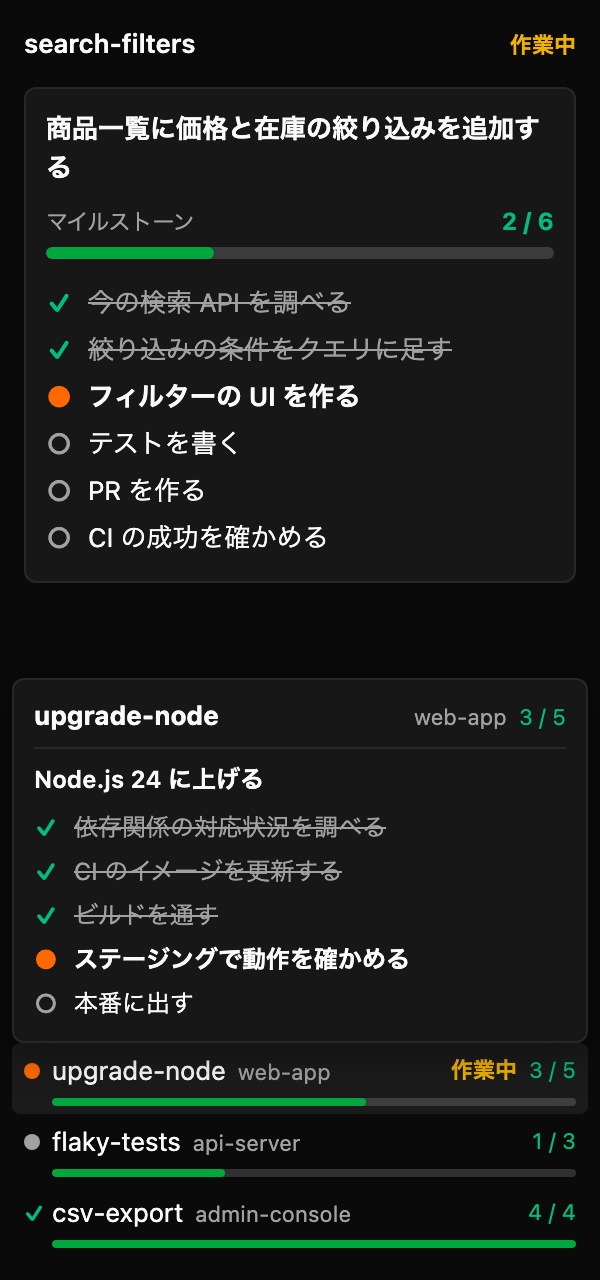
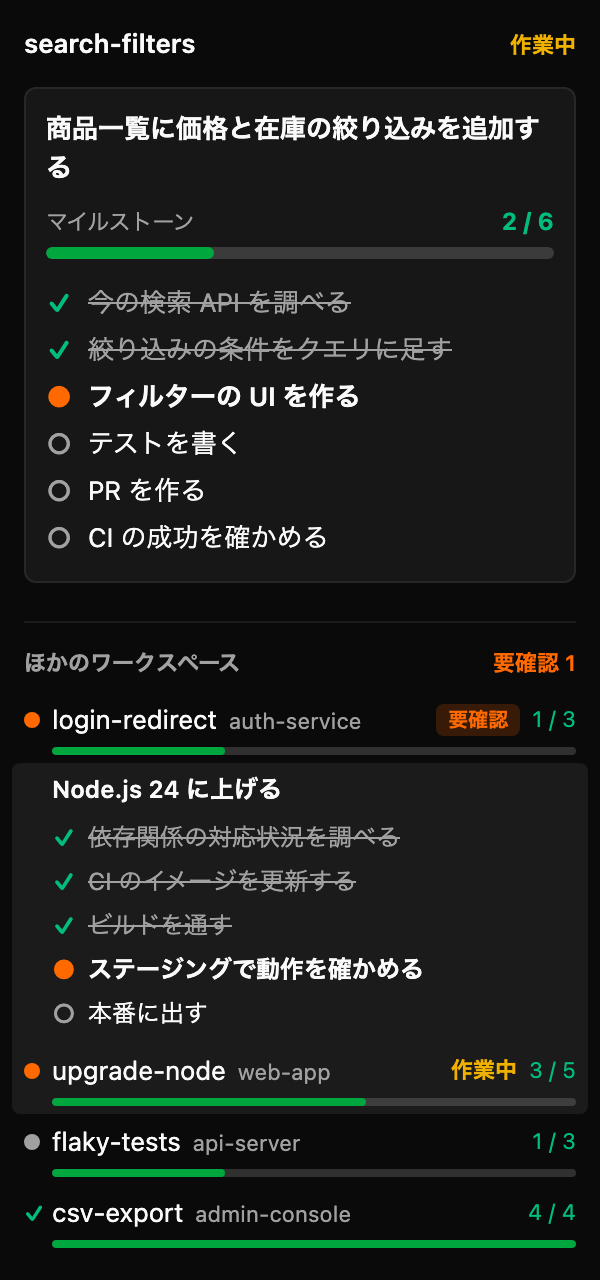
Expand a row in place instead of showing a popover
Hovering the head of another workspace's row now grows that row upward. The rows
are anchored to the bottom edge, so the head stays under the pointer. Only the
head keeps a row open, so leaving it puts every row back where it was. A list of
more than 8 tasks folds its finished tasks into one line and caps the rest, since
nothing in the row scrolls. The focused workspace now scrolls by itself, which
keeps the anchor when its list is long.

Changed region(s): [[0.0, 0.5, 0.99, 0.8125]]

diff --git a/panel/style.css b/panel/style.css
@@ -8,9 +8,12 @@
   --ms-working: oklch(68.1% 0.162 75.834); --ms-track: color-mix(in oklch, var(--orca-foreground) 12%, transparent); }
 html.dark { --ms-done: oklch(69.6% 0.17 162.48); --ms-todo: oklch(70.5% 0.213 47.604);
   --ms-working: oklch(79.5% 0.184 86.047); --ms-track: color-mix(in oklch, var(--orca-foreground) 16%, transparent); }
-body { box-sizing: border-box; display: flex; flex-direction: column; min-height: 100vh;
+/* The panel never scrolls as a whole: the focused workspace scrolls by itself, which keeps the other
+   workspaces fixed to the bottom edge however long its list is. */
+body { box-sizing: border-box; display: flex; flex-direction: column; height: 100vh; overflow: hidden;
   margin: 0; padding: 12px; font: 13px/1.5 system-ui, sans-serif;
   color: var(--orca-foreground); background: var(--orca-background); }
+main { flex: 1 1 0; min-height: 0; overflow: auto; }
 header { display: flex; align-items: baseline; justify-content: space-between; gap: 8px; margin-bottom: 12px; }
 h1 { margin: 0; font-size: 13px; font-weight: 600; overflow: hidden; text-overflow: ellipsis; white-space: nowrap; }
 .agent { flex: none; font-size: 11px; font-weight: 600; color: var(--orca-muted-foreground); }
@@ -36,28 +39,28 @@ li.completed .strike { background-size: 100% 1px; }
 li.in_progress { font-weight: 600; }
 .empty { color: var(--orca-muted-foreground); }
 code { font-size: 12px; }
-.others { margin-top: auto; padding-top: 12px; border-top: 1px solid var(--orca-border); }
+.others { flex: none; padding-top: 12px; border-top: 1px solid var(--orca-border); }
 .others h2 { display: flex; justify-content: space-between; align-items: baseline; margin: 0 0 6px;
   font-size: 11px; font-weight: 600; color: var(--orca-muted-foreground); }
 .others h2 .attention { color: var(--ms-todo); }
 .rows { margin: 0; padding: 0; list-style: none; }
-.row { display: block; position: relative; padding: 0; }
-.row .head { display: block; padding: 4px 6px; margin: 0 -6px; border-radius: 4px; }
-.row .head { cursor: pointer; }
-.row:hover .head { background: color-mix(in oklch, var(--orca-foreground) 7%, transparent); }
+/* Reversed, so a row grows upward from its head. The rows are anchored to the bottom edge, so the
+   head stays under the pointer and the rows above slide up. */
+.row { display: flex; flex-direction: column-reverse; gap: 0; padding: 0 6px; margin: 0 -6px; border-radius: 4px; }
+.row:has(.head:hover), .row:has(.head:focus-visible) { background: color-mix(in oklch, var(--orca-foreground) 7%, transparent); }
+.row .head { display: block; padding: 4px 6px; margin: 0 -6px; border-radius: 4px; cursor: pointer; user-select: none; }
 .row .head:focus-visible { outline: 1px solid var(--orca-foreground); outline-offset: -1px; }
-/* The detail floats above its row, over the empty middle of the panel, so nothing moves. */
-.row .detail { display: none; position: absolute; left: -6px; right: -6px; bottom: 100%; z-index: 1;
-  max-height: 60vh; overflow: auto; padding: 8px 10px; font-size: 12px;
-  border: 1px solid var(--orca-border); border-radius: var(--orca-radius, 6px);
-  background: var(--orca-card); color: var(--orca-card-foreground); box-shadow: 0 6px 20px rgb(0 0 0 / 0.35); }
-.row:hover .detail { display: block; }
-.row .detail .goal { margin: 0 0 4px; }
-.row .detail .title { display: flex; align-items: baseline; gap: 6px; margin: 0 0 6px; padding-bottom: 6px;
-  border-bottom: 1px solid var(--orca-border); }
-.row .detail .title b { min-width: 0; flex: 1; overflow: hidden; text-overflow: ellipsis; white-space: nowrap; font-size: 13px; }
-.row .detail .title .repo { margin-left: 0; }
-.row .detail .title .of { flex: none; }
+/* Only the head keeps a row open. Leaving it closes the row at once, which puts every row back
+   where it was, so the pointer lands on the row it was heading for. The delay lets the pointer
+   cross a row on its way elsewhere without moving anything. */
+.row .detail { display: grid; grid-template-rows: 0fr; visibility: hidden; pointer-events: none;
+  transition: grid-template-rows 120ms ease-out, visibility 120ms; font-size: 12px; }
+.row .head:hover + .detail, .row .head:focus-visible + .detail { grid-template-rows: 1fr; visibility: visible; transition-delay: 150ms; }
+.row .detail .inner { min-height: 0; max-height: 45vh; overflow: hidden; }
+.row .detail .goal { margin: 4px 0 4px 14px; }
+.row .detail ol { margin: 0 0 4px 14px; }
+.row .detail li { gap: 6px; }
+.row .detail li.more { color: var(--orca-muted-foreground); }
 .row .top { display: flex; align-items: center; gap: 6px; }
 .row .dot { flex: none; box-sizing: border-box; width: 8px; height: 8px; border-radius: 50%; background: var(--orca-muted-foreground); }
 .row.attention .dot, .row .dot.running { background: var(--ms-todo); }
@@ -70,5 +73,5 @@ code { font-size: 12px; }
 .row .of { flex: none; font-size: 11px; color: var(--ms-done); }
 .row .bar { height: 4px; margin: 4px 0 0 14px; }
 @media (prefers-reduced-motion: reduce) {
-  .bar > div, li, li .mark, li .strike { transition: none; }
+  .bar > div, li, li .mark, li .strike, .row .detail { transition: none; }
 }

diff --git a/README.md b/README.md
@@ -7,7 +7,7 @@
 
 <p>
   <img src="docs/images/panel.png" width="300" alt="Milestones パネル。上部にフォーカス中のワークスペースのゴールとタスク、下端にほかのワークスペースの進捗が並ぶ">
-  <img src="docs/images/panel-hover.png" width="300" alt="ほかのワークスペースの行にマウスを乗せると、そのワークスペースのゴールとタスクが重なって表示される">
+  <img src="docs/images/panel-hover.png" width="300" alt="ほかのワークスペースの行にマウスを乗せると、その行が広がってゴールとタスクが表示される">
 </p>
 
 左が通常の表示、右がほかのワークスペースの行にマウスを乗せたときです（ワークスペース名やタスクはすべてダミーデータです）。
@@ -24,7 +24,7 @@
 - ワークスペースを切り替えると、表示もそのワークスペースのものに変わります。
 - パネルの下端に「ほかのワークスペース」として、Orca で動いているほかの Claude を並べます（最大 8 件）。
   - 要確認（入力待ち・許可待ち）のものを先頭に、オレンジの「要確認」を付けて出します。次に、タスクが残っているもの、すべて完了したものの順に、それぞれタスクが新しく動いた順で出します。
-  - 各行は、印（要確認と、実行中のタスクがあるものはオレンジの点、タスクがすべて完了したものは緑のチェック、ほかはグレーの点）、ワークスペース名（横に小さくプロジェクト名）、Claude が動いているときの「作業中」と、いちばん新しいタスク一覧の進捗バー・完了数です。「作業中」はターンごとに変わるので、行の並びや表示する行には影響しません。行にマウスを乗せると、ワークスペース名・ゴール・タスクの一覧が行の上に重なって出ます。
+  - 各行は、印（要確認と、実行中のタスクがあるものはオレンジの点、タスクがすべて完了したものは緑のチェック、ほかはグレーの点）、ワークスペース名（横に小さくプロジェクト名）、Claude が動いているときの「作業中」と、いちばん新しいタスク一覧の進捗バー・完了数です。「作業中」はターンごとに変わるので、行の並びや表示する行には影響しません。行にマウスを乗せると、その行が上へ広がってゴールとタスクの一覧が出ます（タスクが 9 件以上なら、完了分は 1 行にまとめ、残りを 8 件まで出します）。
   - 行を押すと、そのワークスペースへ移動します（キーボードで選んで Enter か Space でも移動できます）。
   - 行をクリックしてそのワークスペースへ移ることはできません（パネルから Orca を操作する API がないため）。
 - タスク一覧は、その Claude セッションが動いている間だけ表示します。セッションを終了したり、ワークスペースを削除したりすると消えます。動いているセッションは、Claude が `~/.claude/sessions/<pid>.json` に書く情報で判断します。
